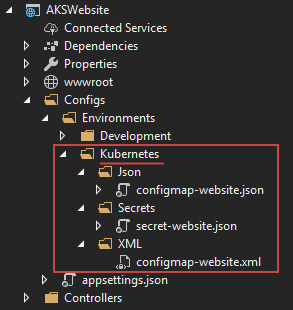
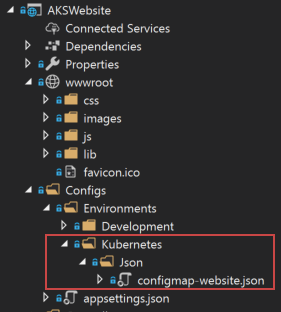
configs

Changed region(s): [[0.0285, 0.0, 0.9964, 1.0], [0.0854, 0.929, 0.1139, 0.9871], [0.0854, 0.3194, 0.1139, 0.3484]]

diff --git a/Source/AKSWebsite/Startup.cs b/Source/AKSWebsite/Startup.cs
@@ -21,7 +21,6 @@ namespace AKSWebsite
              .SetBasePath(env.ContentRootPath)
              .AddJsonFile("Configs/appsettings.json", optional: false, reloadOnChange: true)
              .AddJsonFile($"Configs/Environments/{env.EnvironmentName}/Json/configmap-website.json", optional: true, reloadOnChange: true)
-             .AddJsonFile($"Configs/Environments/{env.EnvironmentName}/Secrets/secret-website.json", optional: true, reloadOnChange: true)
              .AddEnvironmentVariables();
             Configuration = builder.Build();
         }
@@ -36,12 +35,6 @@ namespace AKSWebsite
                 // This lambda determines whether user consent for non-essential cookies is needed for a given request.
                 options.CheckConsentNeeded = context => true;
                 options.MinimumSameSitePolicy = SameSiteMode.None;
-            });
-
-            services.Configure<ForwardedHeadersOptions>(options =>
-            {
-                options.ForwardedHeaders = ForwardedHeaders.All;
-                //- https:/microsoft-my.sharepoint.com/:p:/p/manaccar/EXaCrgJdAOBFov_c0O_0KLwBhGalmbce7xP-1LAUYFwfqg?e=KIra1a
             });
 
             services.AddMvc().SetCompatibilityVersion(CompatibilityVersion.Version_2_1);
